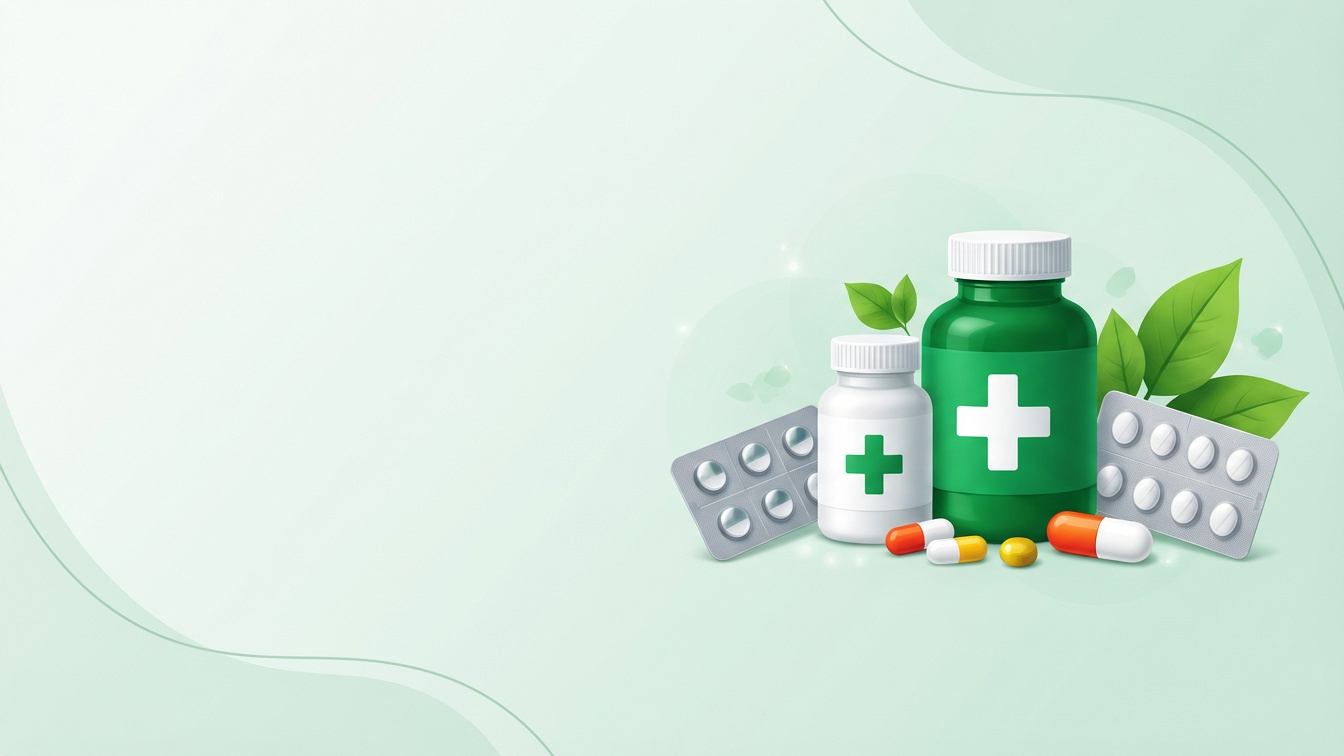
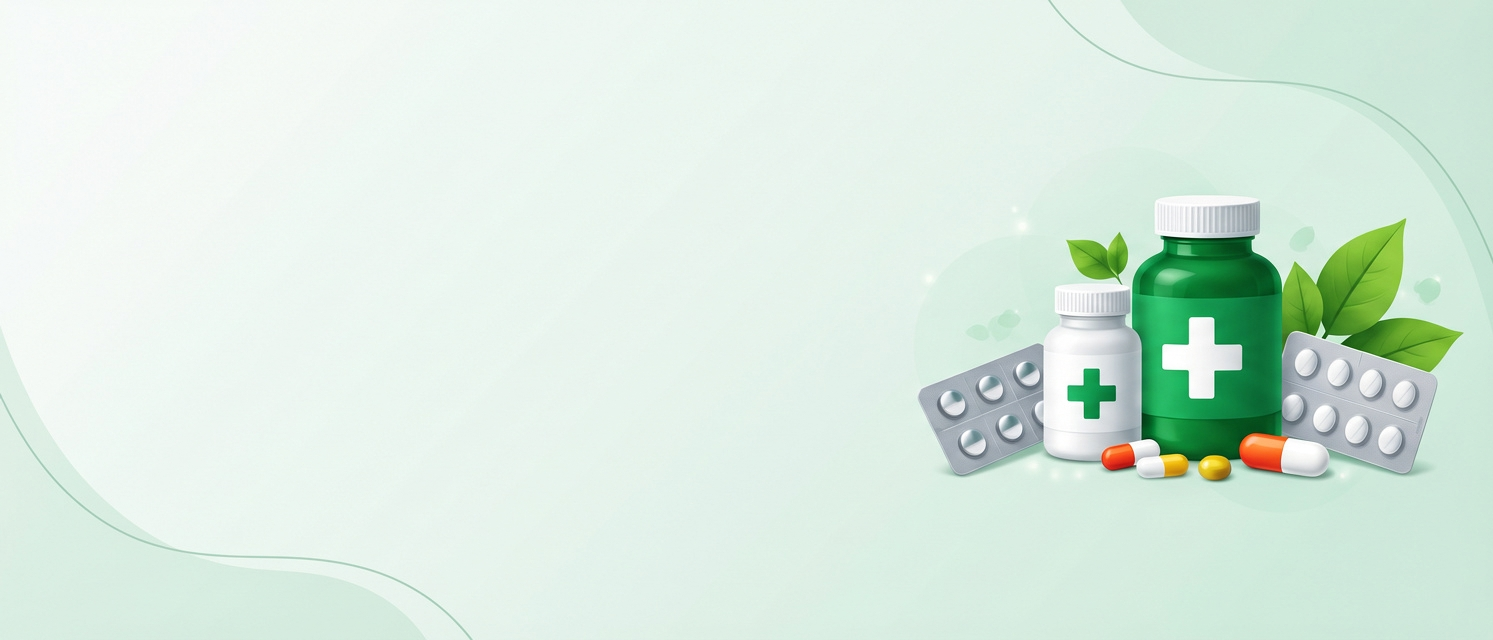
Refactor code structure for improved readability and maintainability

diff --git a/app/Views/design/css/CustomerHome.css b/app/Views/design/css/CustomerHome.css
@@ -11,41 +11,65 @@ body{
 }
 
 header{
+    width: 100%;
+    height: 80px;
     background-color: white;
-    padding: 15px 5%;
+    padding: 10px 4% 10px 1.5%;
     display: flex;
     justify-content: space-between;
     text-align: center;
     box-shadow: 0 2px 8px rgba(0, 0, 0, 0.08);
 }
 
-.logo{
-    width: 210px;
-    height: 65px;
+#logo{
+    align-items: left;
+    object-position:left ;
+    max-height: 65px;
     object-fit: contain;
+    display: block;
+}
+
+.logo{
+    display: flex;
+    align-items: center;
 }
 
 nav{
     display: flex;
     align-items: center;
-    gap: 25px;
+    gap: 15px;
+    flex-wrap: nowrap;
+}
+
+nav a{
+    text-decoration: none;
+    color: black;
+    font-size: 16px;
+    padding: 10px 14px;
+    border-radius: 12px;
+}
+
+nav a.active{
+    background-color:seagreen;
+    color: white;
 }
 
 nav a:hover{
-    color:seagreen;
+    text-decoration: none;
+    color: seagreen;
 }
 
 .welcome-section{
     width:100%;
     min-height: 290px;
-    text-align: center;
+    text-align: left;
     padding: 55px 7%;
     background-color: #e3f2e8;
-    background-image: url('../customer/images/CustomerHome/welcome-bg.png');
+    background-image: url('../../customer/images/CustomerHome.jpg');
     background-repeat: no-repeat;
     
-    background-size: auto 100%;
-    background-position: rightcenter;
+    background-size: cover;
+    background-position: right center;
 
 }
 
@@ -61,16 +85,13 @@ nav a:hover{
 }
 
 .search-box{
-    flex: 1;
-    padding: 14px;
-    border: 1px solid lightgray;
-    border-radius: 6px 0 0 6px;
-    outline: none;
-    font-size: 15px;
+    width: 550px;
+    display: flex;
 }
 
 .search-box input{
     flex: 1;
+    min-width: 0;
     padding: 14px;
     border: 1px solid lightgray;
     border-radius: 6px 0 0 6px;
@@ -98,8 +119,8 @@ nav a:hover{
 
 .content-section h2{
     text-align: center;
-    color:darkgreen
-    font-size: 28px;
+    color:darkgreen;
+    font-size:28px;
     margin-bottom: 25px;
 }
 

diff --git a/app/Views/customer/Home.html b/app/Views/customer/Home.html
@@ -10,11 +10,13 @@
 
         <header>
             <div class="logo">
+                <img src="../customer/images/HomeLogo.jpg" id="logo" alt="Logo">
+
 
             </div>
 
             <nav>
-                <a href="Home.html">Home</a>
+                <a href="Home.html"  class="active">Home</a>
                 <a href="medicines.html">Medicines</a>
                 <a href="cart.html">My Cart</a>
                 <a href="orders.html">My Orders</a>

diff --git a/app/Views/customer/CustomerLogin.html b/app/Views/customer/CustomerLogin.html
@@ -42,7 +42,8 @@
                 <label for ="resetPassword"><a href="CustomerResetPassword.html">Reset Password</a></label>
                 
                 <div class="button-group">
-                <input type="submit" id="submit" value="Login">
+                <input type="submit" id="submit" value="Login"><a href="Home.html"></a>
+               
                 
             </div>
         </form>
